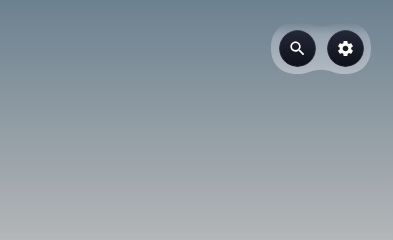
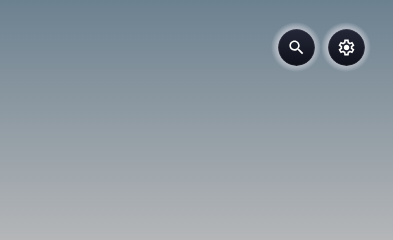
Match home actions to separate recessed reference buttons

Changed region(s): [[0.6718, 0.0875, 0.9466, 0.3208]]

diff --git a/app/src/main/kotlin/com/starception/submission/ui/AppTopSearchBar.kt b/app/src/main/kotlin/com/starception/submission/ui/AppTopSearchBar.kt
@@ -71,12 +71,10 @@ import androidx.compose.foundation.layout.size
 import androidx.compose.foundation.layout.statusBarsPadding
 import androidx.compose.foundation.layout.width
 import androidx.compose.foundation.shape.CircleShape
-import androidx.compose.foundation.shape.GenericShape
 import androidx.compose.foundation.shape.RoundedCornerShape
 import androidx.compose.material.icons.Icons
 import androidx.compose.material.icons.automirrored.filled.ArrowBack
 import androidx.compose.material.icons.filled.Search
-import androidx.compose.material.icons.filled.Settings
 import androidx.compose.material3.Icon
 import androidx.compose.material3.IconButton
 import androidx.compose.material3.MaterialTheme
@@ -114,6 +112,7 @@ import androidx.coordinatorlayout.widget.CoordinatorLayout
 import androidx.compose.ui.platform.LocalContext
 import androidx.compose.ui.platform.LocalDensity
 import androidx.compose.ui.platform.ViewCompositionStrategy
+import androidx.compose.ui.res.painterResource
 import androidx.compose.ui.semantics.contentDescription
 import androidx.compose.ui.semantics.semantics
 import androidx.compose.ui.unit.Dp
@@ -988,56 +987,21 @@ fun AppTopSearchBar(
     }
 }
 
-private val HomeActionRecessShape = GenericShape { size, _ ->
-    val radius = size.height / 2f
-    val middle = size.width / 2f
-    val bend = radius * .375f
-    val shoulder = radius * .5f
-    val waist = radius * .375f
-    val notch = radius / 6f
-    moveTo(radius, 0f)
-    cubicTo(bend, 0f, 0f, bend, 0f, radius)
-    cubicTo(0f, size.height - bend, bend, size.height, radius, size.height)
-    cubicTo(middle - shoulder, size.height, middle - waist, size.height - notch,
-        middle, size.height - notch)
-    cubicTo(middle + waist, size.height - notch, middle + shoulder, size.height,
-        size.width - radius, size.height)
-    cubicTo(size.width - bend, size.height, size.width, size.height - bend,
-        size.width, radius)
-    cubicTo(size.width, bend, size.width - bend, 0f, size.width - radius, 0f)
-    cubicTo(middle + shoulder, 0f, middle + waist, notch, middle, notch)
-    cubicTo(middle - waist, notch, middle - shoulder, 0f, radius, 0f)
-    close()
-}
-
-/** Two compact dark actions share one softly inset, curved backing. */
+/** Two compact dark actions sit in individual soft circular recesses. */
 @Composable
 internal fun HomeHeaderDepthActions(
     isDarkTheme: Boolean,
     onSearchClick: () -> Unit,
     onSettingsClick: () -> Unit,
 ) {
-    Box(
-        modifier = Modifier.width(100.dp).height(52.dp)
-            .background(
-                Brush.verticalGradient(
-                    0f to ComposeColor(0xFF777D89).copy(alpha = if (isDarkTheme) .15f else .23f),
-                    .25f to ComposeColor(0xFFD5D8E1).copy(alpha = if (isDarkTheme) .20f else .36f),
-                    1f to ComposeColor(0xFFF2F0F6).copy(alpha = if (isDarkTheme) .20f else .43f),
-                ),
-                HomeActionRecessShape,
-            ),
-        contentAlignment = Alignment.Center,
-    ) {
-        Row(horizontalArrangement = Arrangement.spacedBy(0.dp)) {
-            HomeHeaderDepthAction("Search", onSearchClick) {
-                Icon(Icons.Default.Search, contentDescription = null,
-                    tint = ComposeColor.White, modifier = Modifier.size(19.dp))
-            }
-            HomeHeaderDepthAction("Settings", onSettingsClick) {
-                Icon(Icons.Default.Settings, contentDescription = null,
-                    tint = ComposeColor.White, modifier = Modifier.size(19.dp))
-            }
+    Row(horizontalArrangement = Arrangement.spacedBy(0.dp)) {
+        HomeHeaderDepthAction("Search", isDarkTheme, onSearchClick) {
+            Icon(Icons.Default.Search, contentDescription = null,
+                tint = ComposeColor.White, modifier = Modifier.size(19.dp))
+        }
+        HomeHeaderDepthAction("Settings", isDarkTheme, onSettingsClick) {
+            Icon(painterResource(R.drawable.ic_app_top_bar_settings_24), contentDescription = null,
+                tint = ComposeColor.White, modifier = Modifier.size(19.dp))
         }
     }
 }
@@ -1045,11 +1009,22 @@ internal fun HomeHeaderDepthActions(
 @Composable
 private fun HomeHeaderDepthAction(
     label: String,
+    isDarkTheme: Boolean,
     onClick: () -> Unit,
     content: @Composable () -> Unit,
 ) {
     Box(
-        modifier = Modifier.size(48.dp)
+        modifier = Modifier.size(50.dp)
+            .drawBehind {
+                drawCircle(
+                    brush = Brush.radialGradient(
+                        0f to ComposeColor(0xFFE4E3EB).copy(alpha = if (isDarkTheme) .32f else .60f),
+                        .72f to ComposeColor(0xFFE4E3EB).copy(alpha = if (isDarkTheme) .32f else .60f),
+                        1f to ComposeColor.Transparent,
+                        radius = size.minDimension / 2f,
+                    ),
+                )
+            }
             .semantics { contentDescription = label }
             .clickable(onClick = onClick),
         contentAlignment = Alignment.Center,
